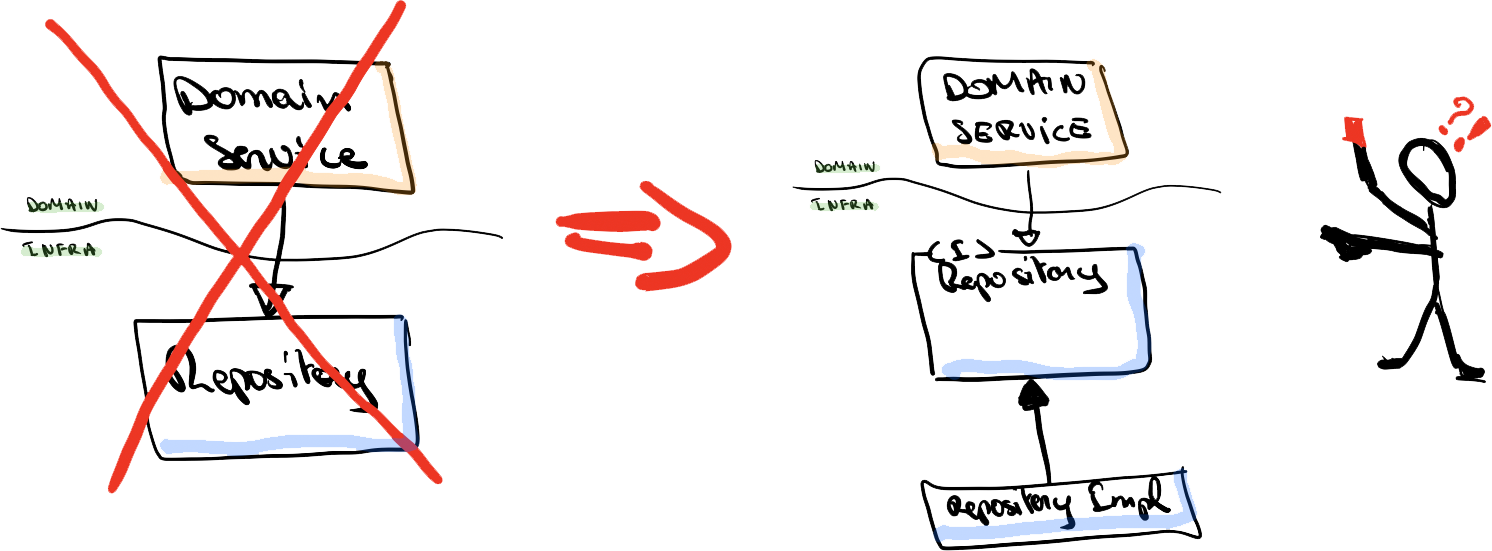
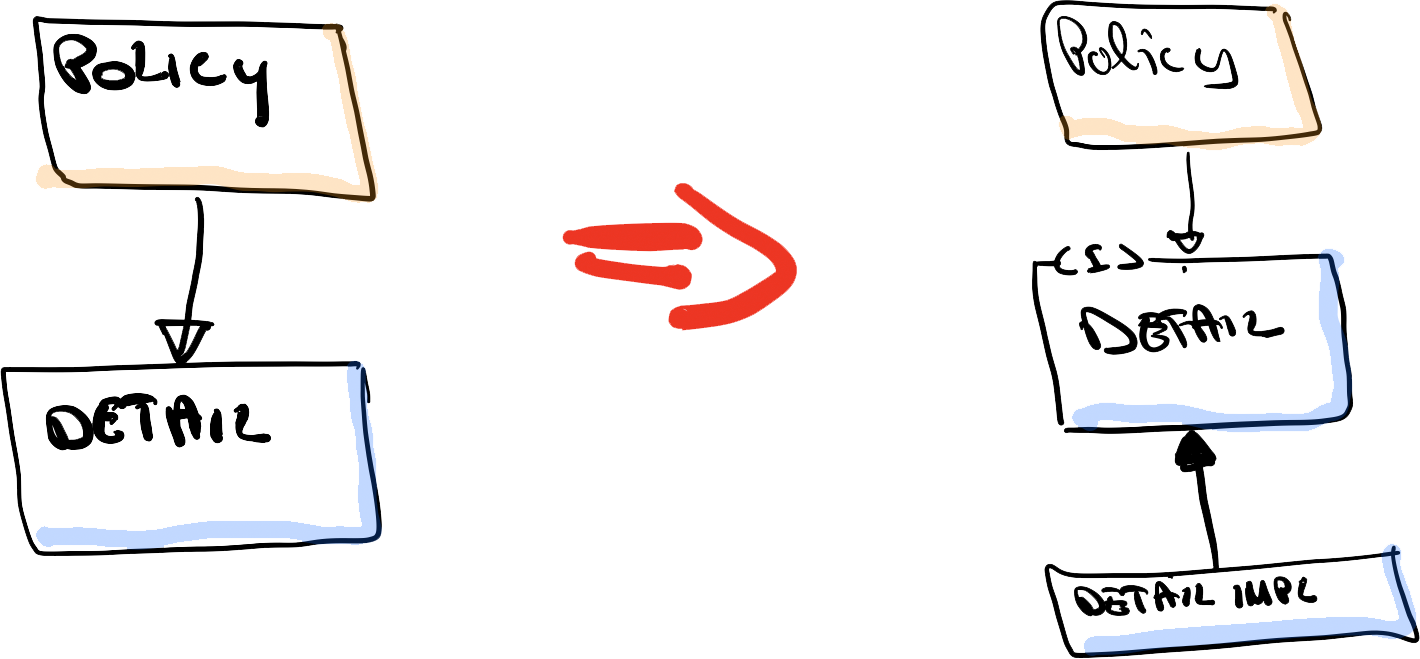
updated images

diff --git a/_posts/2019-05-07-dependency-inversion-principle.md b/_posts/2019-05-07-dependency-inversion-principle.md
@@ -25,18 +25,14 @@ Applying the dependency inversion principle starts by **introducing an abstracti
 
 The dependency is inverted because the high level policy no longer has a *use* relation on the low level policy but on the introduced abstraction. Where the low level policy now has an *implements* relation on the abstraction.
 
-**update drawing!! Hier een tekening van DIP op zich? Zonder architecturale boundaries? Aantonen wat inversion is?**
-![Introduce an abstraction](/img/posts/dip/introduceInterface.png){:width="900px"}
-
+![Introduce an abstraction](/img/posts/dip/introduceInterface.png){:width="600px"}
 
 ### Where to put the abstraction?
 Who owns the abstraction upon which the high level policy depends and why? Where does the abstraction belong? The answer is actually already given in the definition of DIP. When we are 'inverting' the dependency, we are in essence going from a high level policy that ‘uses’ a low level detail (the dependency)to a situation where the high level policy ‘uses’ an abstraction and the low level policy now has the inverted relation "implements" (the inverted dependency) towards the abstraction. Since our goal was for the high level policy to no longer depend on the low level, the abstraction belongs with the high level policy. 
 
 There is also the cohesive aspect of "reason to change". Why would the abstraction need to change? Because the one that uses it, requires something different from it. It is the high level policy that has the *uses* relation to the abstraction. Therefore they belong together.
 
-**The abstraction should be located next to the high level policy**.
-**update drawing!!**
-![Move interface](/img/posts/dip/moveInterface.png){:width="800px"}
+![Move interface](/img/posts/dip/moveInterface.png){:width="600px"}
 
 The low level policies, the details, are just plugins to our important policies.
 
@@ -60,8 +56,7 @@ However when we don't use an IOC container, we can use the Abstract Factory patt
 ### The repository pattern
 Looking at the repository pattern, as originally coined by Eric Evans, we can clearly see that it's a fine example of the dependency inversion principle. The pattern states that an *abstraction* should be created which is free of technical details, and should preferably look a lot like a collection interface. The abstraction should be implemented in the infrastructure layer where all the technicalities of dealing with a persistent store should be hidden. From the domain perspective, we are talking with a collection like interface to store the aggregates.
 
-** update drawing, repo only.**
-![Move interface](/img/posts/dip/moveInterface.png){:width="800px"}
+![Move interface](/img/posts/dip/repoPattern.png){:width="500px"}
 
 Placing this abstraction inside the domain layer, close to its consumers, ensures that the domain layer is guarded from any changes to the low level infrastructure code.
 
